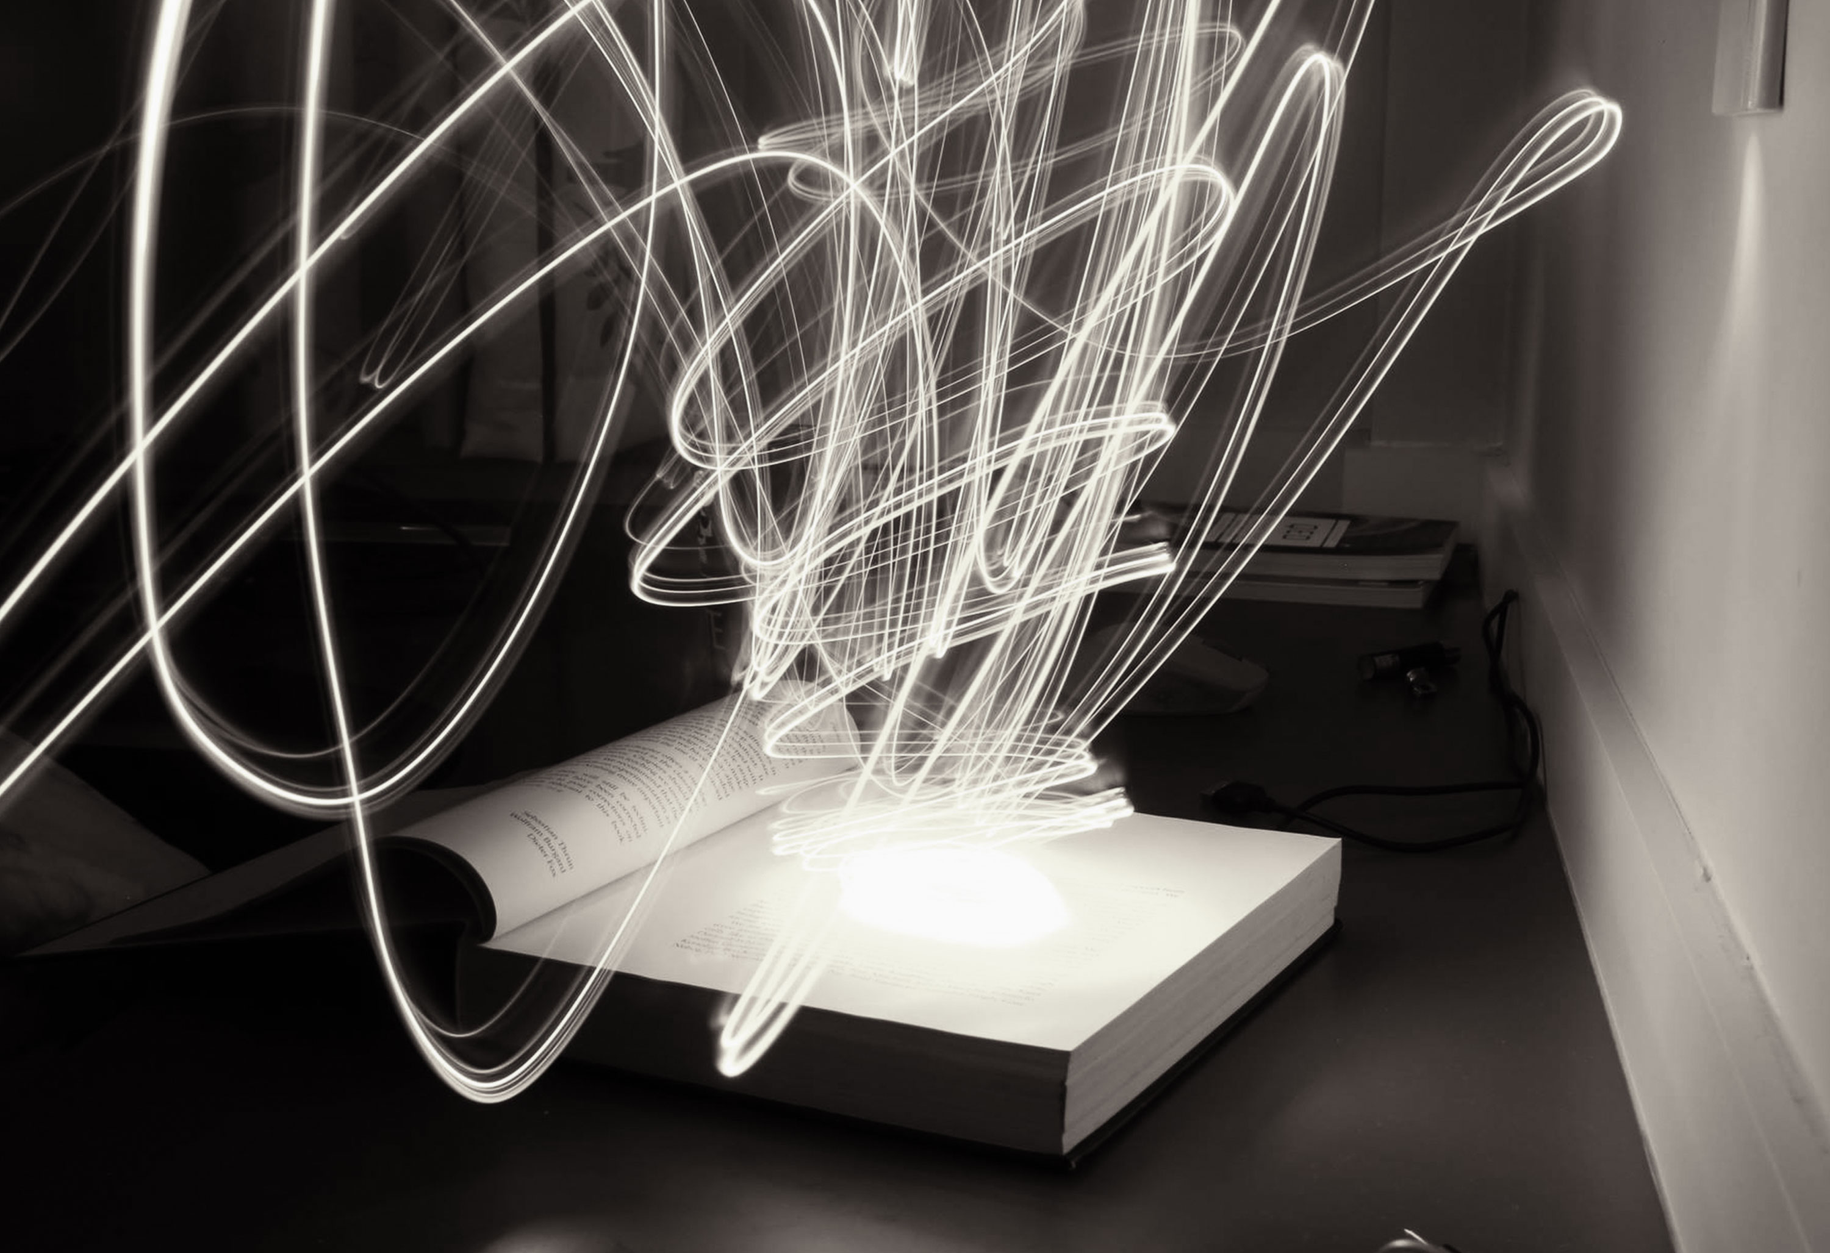
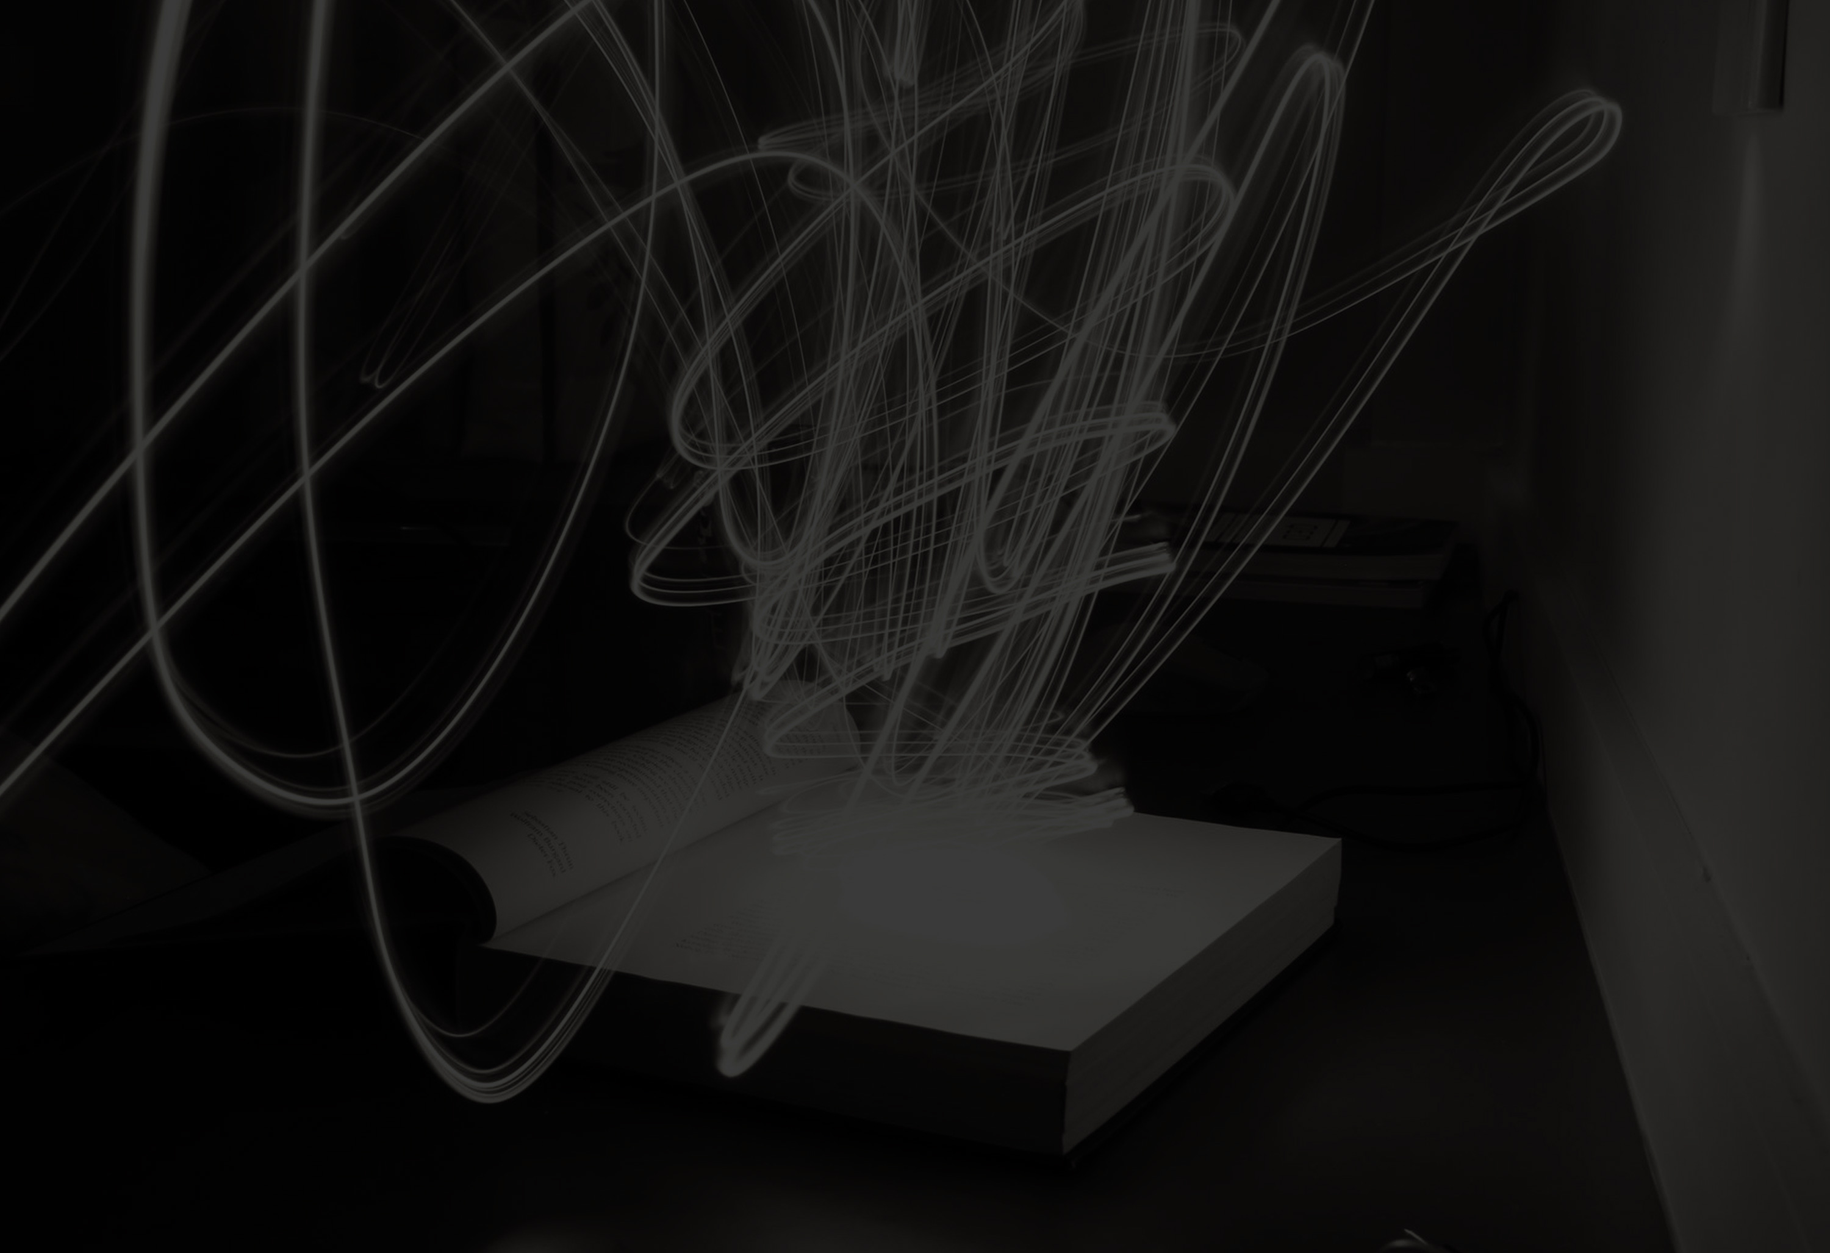
Updating cv

diff --git a/src/components/works.jsx b/src/components/works.jsx
@@ -7,29 +7,64 @@ export default class Works extends Component {
     const jobs = [
       {
         image: "https://camo.githubusercontent.com/0c0274a4be819c4242993a5b0181b39e6eb6ec72/68747470733a2f2f6d656469612e67697068792e636f6d2f6d656469612f35384667706e524147573542676a7a5031712f67697068792e676966",
-        title: "The Beetle",
-        subtitle: "Web Development",
+        title: "Acadêmico Online Mobile",
+        subtitle: "Desenvolvimento Android, com Scrapper Web do Sistema Oficial",
+        href: "https://www.behance.net/",
+        text: "Vero molestiae sed aut natus excepturi. Et tempora numquam. Temporibus iusto quo.Unde dolorem corrupti neque nisi."
+      },
+      {
+        image: "https://i.imgur.com/3RgqybT.gif",
+        title: "LegendasTV Terminal",
+        subtitle: "Uma versão para download de legendas pelo terminal. Feita utilizando golang nos estudos.",
+        href: "https://www.behance.net/",
+        text: "Vero molestiae sed aut natus excepturi. Et tempora numquam. Temporibus iusto quo.Unde dolorem corrupti neque nisi."
+      },
+      {
+        image: "https://i.imgur.com/DiX8Fzw.png",
+        title: "Dontfile",
+        subtitle: "Sistema simples de gerenciamento online de arquivos utilizando Golang",
+        href: "https://www.behance.net/",
+        text: "Vero molestiae sed aut natus excepturi. Et tempora numquam. Temporibus iusto quo.Unde dolorem corrupti neque nisi."
+      },
+      {
+        image: "https://i.imgur.com/uJZu7oZ.gif",
+        title: "Acadêmico Online Terminal",
+        subtitle: "Desenvolvido durante o estudo de Golang",
+        href: "https://www.behance.net/",
+        text: "Vero molestiae sed aut natus excepturi. Et tempora numquam. Temporibus iusto quo.Unde dolorem corrupti neque nisi."
+      },
+      {
+        image: "https://catatanmini.com/wp-content/uploads/2017/05/bronchopneumonia.jpeg",
+        title: "Sistema de detecção de Pneumonia utilizando Deep Learning",
+        subtitle: "Utilizando um dataset público, foi definido um modelo para classificação binária.",
+        href: "https://www.behance.net/",
+        text: ""
+      },
+      {
+        image: "https://camo.githubusercontent.com/d32d70ec97d0fea883a1b08c3f1d04fb5481fb6f/68747470733a2f2f6d656469612e67697068792e636f6d2f6d656469612f353157353264554566724b333774514b4a4f2f67697068792e676966",
+        title: "Controle de Dispositivo",
+        subtitle: "Apenas um teste de controle de dispositivos, utilizando controle Web, Mobile e um Pong",
+        href: "https://www.behance.net/",
+        text: "Vero molestiae sed aut natus excepturi. Et tempora numquam. Temporibus iusto quo.Unde dolorem corrupti neque nisi."
+      },
+      {
+        image: "https://www.kaggle.com/static/images/logos/kaggle-logo-gray-300.png",
+        title: "Repositório de Soluções do Kaggle",
+        subtitle: "Consumo de um modelo VGG16 em um Servidor Flask. Predizendo a classe da imagem enviada.",
         href: "https://www.behance.net/",
         text: "Vero molestiae sed aut natus excepturi. Et tempora numquam. Temporibus iusto quo.Unde dolorem corrupti neque nisi."
       },
       {
         image: "https://camo.githubusercontent.com/73f31349c172ceffabb5083f76ef2f2acee3d904/68747470733a2f2f6d656469612e67697068792e636f6d2f6d656469612f32736a77434843624e38337955414d4f38672f67697068792e676966",
-        title: "The Beetle",
-        subtitle: "Web Development",
+        title: "Imagenet API com React",
+        subtitle: "Consumo de um modelo VGG16 em um Servidor Flask. Predizendo a classe da imagem enviada.",
         href: "https://www.behance.net/",
         text: "Vero molestiae sed aut natus excepturi. Et tempora numquam. Temporibus iusto quo.Unde dolorem corrupti neque nisi."
       },
       {
-        image: "images/portfolio/gallery/g-beetle.jpg",
-        title: "The Beetle",
-        subtitle: "Web Development",
-        href: "https://www.behance.net/",
-        text: "Vero molestiae sed aut natus excepturi. Et tempora numquam. Temporibus iusto quo.Unde dolorem corrupti neque nisi."
-      },
-      {
-        image: "images/portfolio/gallery/g-beetle.jpg",
-        title: "The Beetle",
-        subtitle: "Web Development",
+        image: "https://i.imgur.com/oB2MfYF.png",
+        title: "Modelo para classificação automática de sentença jurídica",
+        subtitle: "Utilização de Machine Learning para predição de sentença",
         href: "https://www.behance.net/",
         text: "Vero molestiae sed aut natus excepturi. Et tempora numquam. Temporibus iusto quo.Unde dolorem corrupti neque nisi."
       }
@@ -39,10 +74,11 @@ export default class Works extends Component {
       <section id="works" class="s-works target-section">
         <div class="row narrow section-intro has-bottom-sep">
             <div class="col-full">
-                <h3>Portfolio</h3>
-                <h1>Meus últimos projetos</h1>
+                <h3>Projetos</h3>
+                <h1>Alguns projetos pessoas</h1>
 
-                <p class="lead">Aqui constam alguns dos últimos projetos, sendo misturados os pessoais, os de aprendizado e os feitos em empresas.</p>
+                <p class="lead">Aqui constam alguns dos últimos projetos pessoais.
+                Projetos desenvolvidos em empresas não podem ser listados por se tratar de sistemas em produção. </p>
             </div>
         </div>
 

diff --git a/src/components/about.jsx b/src/components/about.jsx
@@ -13,12 +13,14 @@ export default class About extends Component {
       <section id="about" class="s-about target-section">
         <div class="row narrow section-intro has-bottom-sep">
           <Block col="full" textAlign="center">
+              <img class="img-about"/>
               <h3>Sobre</h3>
-              <h1>Um Pouco Sobre Mim</h1>
-              <p class="lead">Meu nome é Paulo Alves, busco a inovação na resolução
-              de problemas. Atualmente estou facinado em Inteligência Artificial,
-              principalmente em treinar modelos usando <i>Datasets</i> enormes.
-              Também sou desenvolvedor fullstack web, desktop e mobile. Tentando
+              <h1>Um pouco sobre mim</h1>
+              <p class="lead">Sou Paulo Alves, tenho 22 anos e considero a
+              inovação o fator crucial para o sucesso.
+              Sou <b>fascinado</b> em Machine Learning e Deep Learning.
+              <br/>
+              Gosto bastante de realizar projetos pessoais, então também sou desenvolvedor fullstack web, desktop e mobile. Buscando
               sempre integrar tudo.</p>
           </Block>
         </div>
@@ -51,12 +53,22 @@ export default class About extends Component {
                   <Timeblock period="FEVEREIRO 2017 - PRESENT"
                              place="Núcleo de Tecnologia da Informação"
                              work="Estágio/Desenvolvedor Fullstack">
-                    <p>Lorem ipsum Occaecat do esse ex et dolor culpa nisi ex in magna consectetur nisi cupidatat laboris esse eiusmod deserunt aute do quis velit esse sed Ut proident cupidatat nulla esse cillum laborum occaecat nostrud sit dolor incididunt amet est occaecat nisi.</p>
+                    <p>
+                      Em 2016 como estudante, fui convidado para desenvolver parte
+                      de um sistema importante para Universidade. Desde então me tornei
+                      Estágiario/Desenvolvedor Fullstack e já participei de diversos projetos.
+                    </p>
                   </Timeblock>
                   <Timeblock period="FEVEREIRO 2014 - PRESENTE"
                              place="Universidade Estadual de Ponta Grossa"
                              work="Engenharia de Computação">
-                    <p>Lorem ipsum Occaecat do esse ex et dolor culpa nisi ex in magna consectetur nisi cupidatat laboris esse eiusmod deserunt aute do quis velit esse sed Ut proident cupidatat nulla esse cillum laborum occaecat nostrud sit dolor incididunt amet est occaecat nisi.</p>
+                    <p>
+                      O curso de engenharia de computação me permitiu ter mais tempo
+                      exclusivo para estudar essa área. A universidade decepciona bastante
+                      no ensino prático e resolução de problemas, porém trás uma bagagem teórica.
+                      Essa foi uma parte importante, onde pude gastar meus esforços e aprender
+                      por conta própria.
+                    </p>
                   </Timeblock>
                 </Timeline>
             </Block>
@@ -68,12 +80,23 @@ export default class About extends Component {
                   <Timeblock period="2012"
                              place="Um pouco antes da Universidade"
                              work="Um breve trabalho com Python e C#">
-                    <p>Lorem ipsum Occaecat do esse ex et dolor culpa nisi ex in magna consectetur nisi cupidatat laboris esse eiusmod deserunt aute do quis velit esse sed Ut proident cupidatat nulla esse cillum laborum occaecat nostrud sit dolor incididunt amet est occaecat nisi.</p>
+                    <p>
+                      Antes de entrar em um universidade, desenvolvi
+                      alguns softwares simples utilizando Python e C#. Foram pensados na
+                      época para facilitar meu dia a dia.
+                    </p>
                   </Timeblock>
                   <Timeblock period="2006"
                              place="Início"
                              work="Iniciando com C e Assembly">
-                    <p>Lorem ipsum Occaecat do esse ex et dolor culpa nisi ex in magna consectetur nisi cupidatat laboris esse eiusmod deserunt aute do quis velit esse sed Ut proident cupidatat nulla esse cillum laborum occaecat nostrud sit dolor incididunt amet est occaecat nisi.</p>
+                    <p>
+                      Meu primeiro contato com desenvolvimento foi próximo dos 10 anos.
+                      Como toda criança daquela época, gostava de torrar meu tempo
+                      em jogos. Essa fase me garantiu o primeiro contato com linguagens
+                      como C e Assembly. É óbvio que naquela época não entendia exatamente
+                      o que estava fazendo, porém mesmo assim escrevi alguns tutoriais na
+                      internet.
+                    </p>
                   </Timeblock>
                 </Timeline>
             </Block>

diff --git a/src/components/content.jsx b/src/components/content.jsx
@@ -4,19 +4,31 @@ import Block from './block'
 export default class Content extends Component {
 
   render() {
-
-      let title = "Olá!"
-
-      let content = `
-      Lorem ipsum Ut eiusmod ex magna sit dolor esse adipisicing minim ad cupidatat eu veniam nostrud mollit laboris sunt magna velit culpa consectetur nostrud consectetur labore sed do.
-
-      Lorem ipsum Nisi officia Duis irure voluptate dolor commodo pariatur occaecat aliquip adipisicing voluptate Ut in qui ea sint occaecat in commodo in in in incididunt ut sunt in Ut Duis in ut ex qui anim cupidatat cupidatat ex in non dolore labore ea amet cillum ea qui dolor nisi sed velit mollit exercitation ex fugiat labore in deserunt culpa laborum culpa anim dolore laboris amet irure mollit proident velit fugiat aute ea elit magna consequat qui officia quis elit Duis dolor esse cupidatat tempor proident voluptate aliqua ex cupidatat do eiusmod veniam irure laborum ut magna nostrud dolore ullamco commodo elit sit magna aliqua laborum veniam officia dolor.
-      `
-
       return(
         <Block col="six" tab="full" align="left">
-            <h3>{title}</h3>
-            <p>{content}</p>
+            <h3>Um muito mais sobre mim</h3>
+            <p>
+              Trabalhar com Machine Learning e Deep Learning não é tudo.
+              Não tenho subárea exclusiva, linguagem favorita ou amarras
+              com linguagens e frameworks. <br/><br/>
+              Gosto muito de trabalhar com linux (principalmente archlinux),
+              porém atualmente sou usuário de macOS no ambiente pessoal e linux/windows no profissional. <br/><br/>
+              A lista de tecnologias a direita pode parecer um pouco exagerada ou explicita demais,
+              porém de fato são tecnologias que estou focando no momento e tentando integrar
+              (como por exemplo utilizar modelos simples em tensorflow em dispositivos android). Já fiz projetos com outras
+              tecnologias também, e que não constam ali, como Ruby (utilizando Ruby on Rails), Java, C#
+              e C. <br/><br/>
+
+              Uma das minhas paixões são fotos de longa exposição <a target="_blank" href="https://i.imgur.com/vr3RZLP.jpg">(uma de minhas favoritas)</a>, isso provavelmente teve
+              grande influência nesse design "fluído" dessa página.  <br/><br/>
+
+              Um outro hobbie, porém que está relacionado à área, é o <a target="_blank" href="http://kaggle.com">Kaggle</a>. Participo das competições e
+              vejo o máximo de material possível para vencê-las (como os lendário cursos da deeplearning.ai
+              e HSE). <br/><br/>
+
+              Como estou próximo do término da graduação, já existem planos para pós-graduação na área de
+              Inteligência Artificial.
+            </p>
         </Block>
       )
   }

diff --git a/src/components/header.jsx b/src/components/header.jsx
@@ -8,22 +8,19 @@ export default props => (
 
                 <div class="page-header__info">
                     <div class="page-header__cat">
-                        <a href="#0">Branding</a><a href="#0">Design</a>
+                        <a href="#0">Lorem</a><a href="#0">Design</a>
                     </div>
                     <div class="page-header__date">
-                        Sept 16, 2017
+                        lorem
                     </div>
                 </div>
 
                 <h1 class="page-header__title">
                     <a href="#0" title="">
-                        The 10 Golden Rules of Clean Simple Design.
+                        The Lorem Design.
                     </a>
                 </h1>
                 <p>Pellentesque in ipsum id orci porta dapibus amet dui. Ad id deserunt ratione autem eius et minima ut et. Nihil sed quis velit aut enim aliquam. Quas non ad sint eveniet voluptatem est iure...</p>
-                <p>
-                    <a href="#0" class="btn btn--stroke page-header__btn">Read More</a>
-                </p>
             </article>
         </div>
 

diff --git a/src/components/footer.jsx b/src/components/footer.jsx
@@ -32,10 +32,6 @@ export default class Footer extends Component {
         <div class="row">
             <div class="col-full">
 
-                <div class="footer-logo">
-                    <a class="footer-site-logo" href="#0"><img src="images/logo.png" alt="Homepage"/></a>
-                </div>
-
                 <ul class="footer-social">
                   {socials.map(social =>
                     <li>
@@ -53,6 +49,12 @@ export default class Footer extends Component {
         <div class="row footer-bottom">
 
             <div class="col-twelve">
+                <div class="copyright">
+                    <span>© Paulo Alves - 2018</span>
+                    <span>Componentizado e customizado a partir do layout <a href="https://www.styleshout.com/">hola</a></span>
+                </div>
+
+
                 <div class="go-top">
                 <a class="smoothscroll" title="Back to Top" href="#top"><i class="im im-arrow-up" aria-hidden="true"></i></a>
                 </div>

diff --git a/src/css/main.css b/src/css/main.css
@@ -1633,6 +1633,31 @@ button::-moz-focus-inner, input::-moz-focus-inner {
  *
  * ------------------------------------------------------------------- */
 
+.img-about {
+  background-image: url('https://i.imgur.com/KTGdaS3.jpg');
+  background-size:     cover;
+  background-repeat:   no-repeat;
+  background-position: center center;
+  width: 200px;
+  height: 200px;
+  border-radius: 100px;
+  margin-bottom: 5em;
+  -webkit-transition: all 0.3s ease;
+  -moz-transition: all 0.3s ease;
+  -o-transition: all 0.3s ease;
+  transition: all 0.3s ease;
+}
+
+.img-about:hover {
+  -webkit-transition: all 0.3s ease;
+  -moz-transition: all 0.3s ease;
+  -o-transition: all 0.3s ease;
+  transition: all 0.3s ease;
+  z-index: 10;
+  background-image: url('https://i.imgur.com/rir58U3.jpg');
+}
+
+
 .s-home {
     width: 100%;
     height: 100%;
@@ -1669,7 +1694,7 @@ canvas {
     left: 0;
     width: 100%;
     height: 100%;
-    opacity: .85;
+    opacity: .82;
     background-color: #111111;
 }
 

diff --git a/src/components/contact.jsx b/src/components/contact.jsx
@@ -7,10 +7,12 @@ export default props => (
 
         <div class="row narrow section-intro">
             <div class="col-full">
-                <h3>Contact</h3>
-                <h1>Say Hello.</h1>
+                <h3>Contato</h3>
+                <h1>Você pode entrar em contato.</h1>
 
-                <p class="lead">Lorem ipsum Dolor adipisicing nostrud et aute Excepteur amet commodo ea dolore irure esse Duis nulla sint fugiat cillum ullamco proident aliquip quis qui voluptate dolore veniam Ut laborum non est in officia.</p>
+                <p class="lead">Se tiver interesse em discutir sobre inteligência
+                artificial ou problemas de computação no geral, use a ferramenta de contato
+                ou alguma rede social. Será um prazer trocar uma ideia.</p>
             </div>
         </div>
     </section>

diff --git a/src/components/perfil.jsx b/src/components/perfil.jsx
@@ -11,8 +11,8 @@ export default class Perfil extends Component {
     let perfil = {
         title: 'Hello World',
         description: `
-        Eu sou Paulo Alves.
-        Desenvolvedor e sempre buscando inovação.
+        Eu sou Paulo Alves
+        Desenvolvedor apaixonado por inovação.
         `
     }
 
@@ -24,10 +24,12 @@ export default class Perfil extends Component {
 
             <div class="overlay"></div>
             <div class="shadow-overlay"></div>
-            <P5Wrapper sketch={Sketch}
-                       style={{zIndex: -10}}/>
+            <P5Wrapper sketch={Sketch} style={{zIndex: -10}}/>
+
+
             <div class="home-content">
                 <div class="row home-content__main">
+
                     <h3>{perfil.title}</h3>
                     <h1>{perfil.description}</h1>
 

diff --git a/src/components/stats.jsx b/src/components/stats.jsx
@@ -6,13 +6,13 @@ export default props => (
 
             <div class="col-block stats__col ">
                 <div class="stats__count">
-                    17
+                    5
                 </div>
-                <h4>Horas perdidas no Paperspace</h4>
+                <h4>Participações no Kaggle </h4>
             </div>
             <div class="col-block stats__col">
                 <div class="stats__count">
-                    12
+                    87
                 </div>
                 <h4>Modelos Treinados</h4>
             </div>

diff --git a/src/components/skills.jsx b/src/components/skills.jsx
@@ -20,12 +20,12 @@ export default class Skills extends Component {
         percentage: "90"
       },
       {
-        name: "Datascience com Python",
+        name: "React e React Native",
         percentage: "85"
       },
       {
-        name: "React e React Native",
-        percentage: "85"
+        name: "Data Science, Machine e Deep Learning",
+        percentage: "80"
       },
       {
         name: "Tensorflow e Keras",

diff --git a/src/components/social.jsx b/src/components/social.jsx
@@ -21,7 +21,7 @@ export default class Social extends Component {
         text: "Linkedin"
       },
       {
-        href: "https://github.com/pstw",
+        href: "https://github.com/pstwh",
         icon: "im im-github",
         text: "Github"
       },

diff --git a/src/sketchs/flow.js b/src/sketchs/flow.js
@@ -4,7 +4,7 @@ export default function sketch (p5) {
   let particles_a = [];
   let particles_b = [];
   let particles_c = [];
-  let nums = 500;
+  let nums = 250;
   let noiseScale = 700;
 
   p5.setup = function(){
